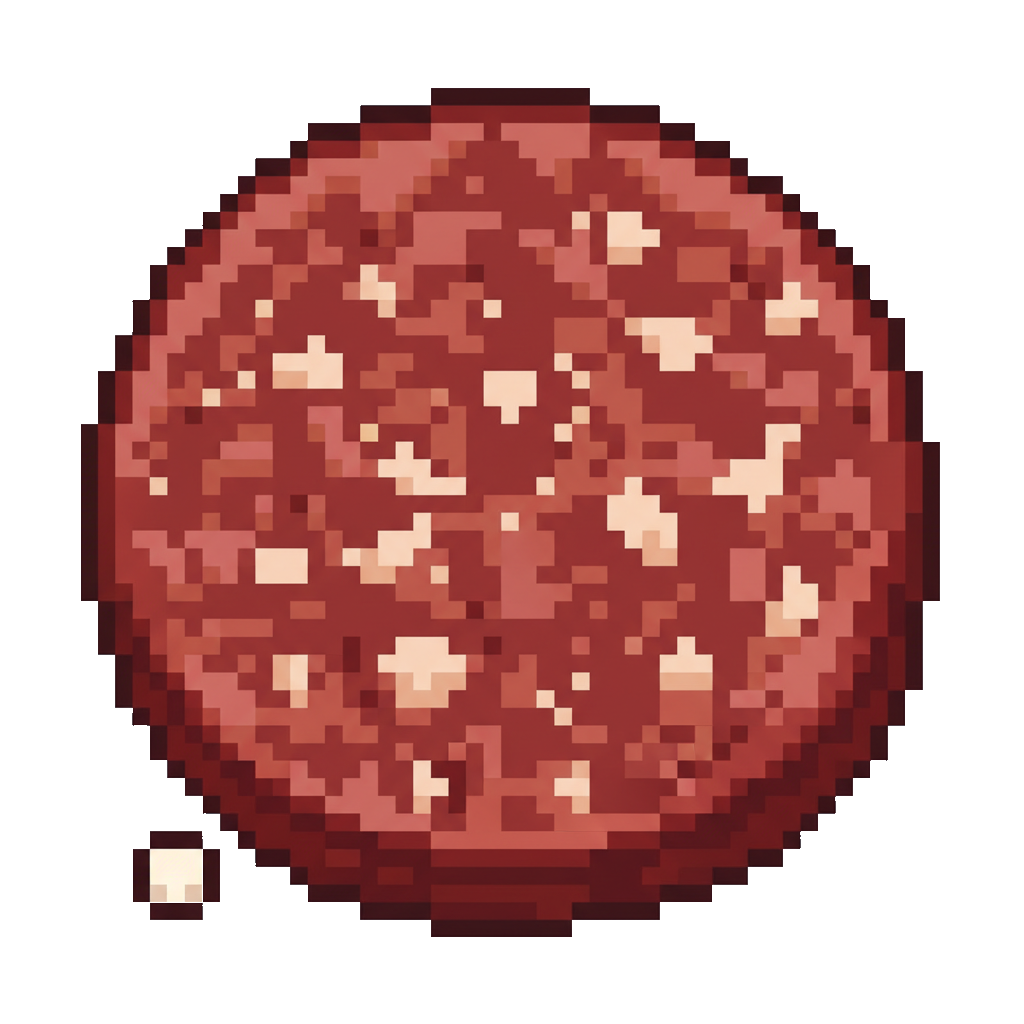
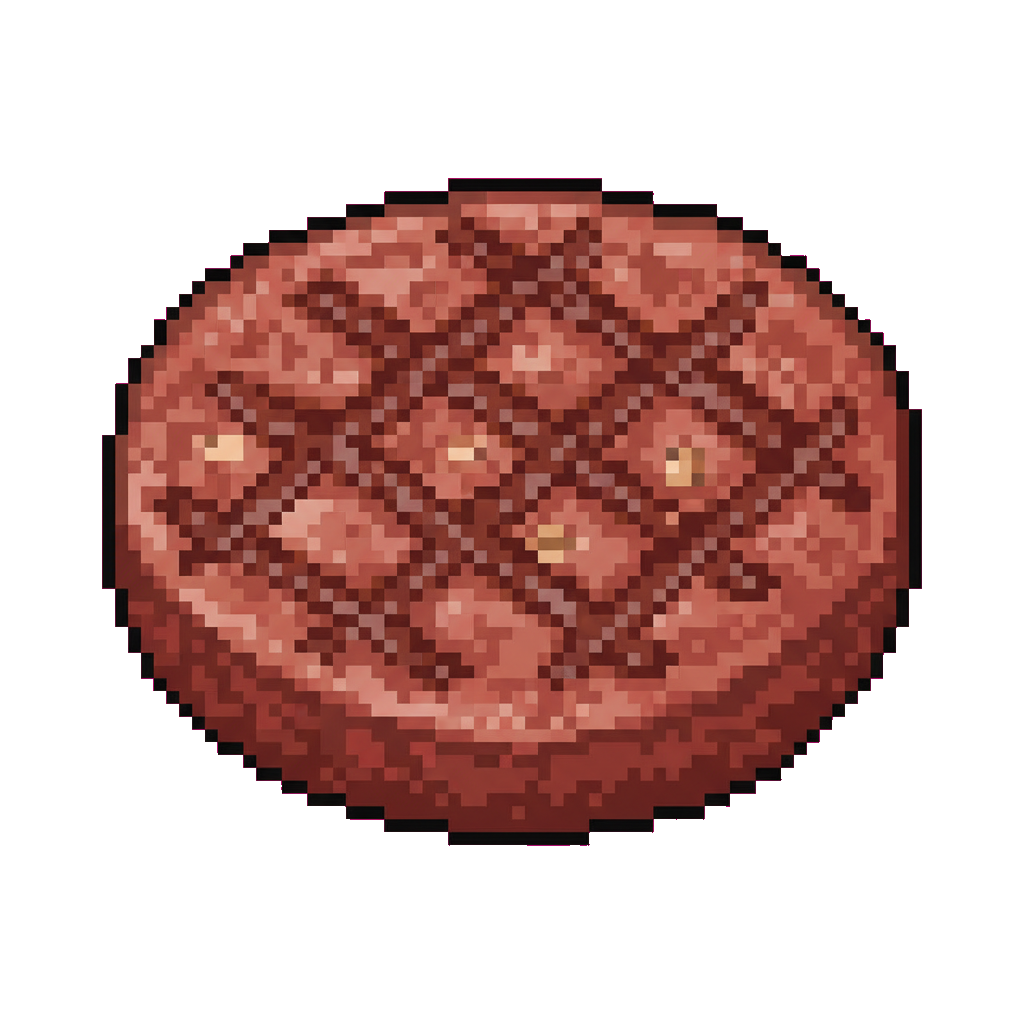
Remove tutorialHint and update beef-patty asset
tutorialHint.ts was deleted as part of the kitchen redesign; remove its
import/call sites from GroceryScene and RestaurantScene. Also include
updated beef-patty.png sprite.

diff --git a/src/scenes/RestaurantScene.ts b/src/scenes/RestaurantScene.ts
@@ -3,7 +3,6 @@ import { renderPixelText, addMenuButton } from "./renderPixelText";
 import { initialWallet, formatCoins, addCoins, type Wallet } from "../domain/wallet";
 import { measureLineWidth, createDefaultLayoutConfig } from "../domain/pixel-font";
 import { recordSceneEntry } from "./saveHelpers";
-import { showTutorialHint } from "./tutorialHint";
 import { renderTimerBar } from "./timerBar";
 import { renderPanel } from "./panel";
 import {
@@ -191,7 +190,6 @@ export class RestaurantScene extends Phaser.Scene {
     });
 
     this.time.delayedCall(2_000, () => this.spawnCustomer());
-    showTutorialHint(this, "service");
   }
 
   update(_time: number, delta: number): void {

diff --git a/src/scenes/GroceryScene.ts b/src/scenes/GroceryScene.ts
@@ -7,7 +7,6 @@ import {
   type Wallet,
 } from "../domain/wallet";
 import { recordSceneEntry } from "./saveHelpers";
-import { showTutorialHint } from "./tutorialHint";
 import { renderTimerBar } from "./timerBar";
 import { renderPanel } from "./panel";
 import {
@@ -126,8 +125,6 @@ export class GroceryScene extends Phaser.Scene {
 
     this.renderItemGrid();
     this.renderCoinHud();
-    showTutorialHint(this, "grocery");
-
     // Menu toggle button (top-left)
     const menuBtnX = 60;
     const menuBtnY = 20;
